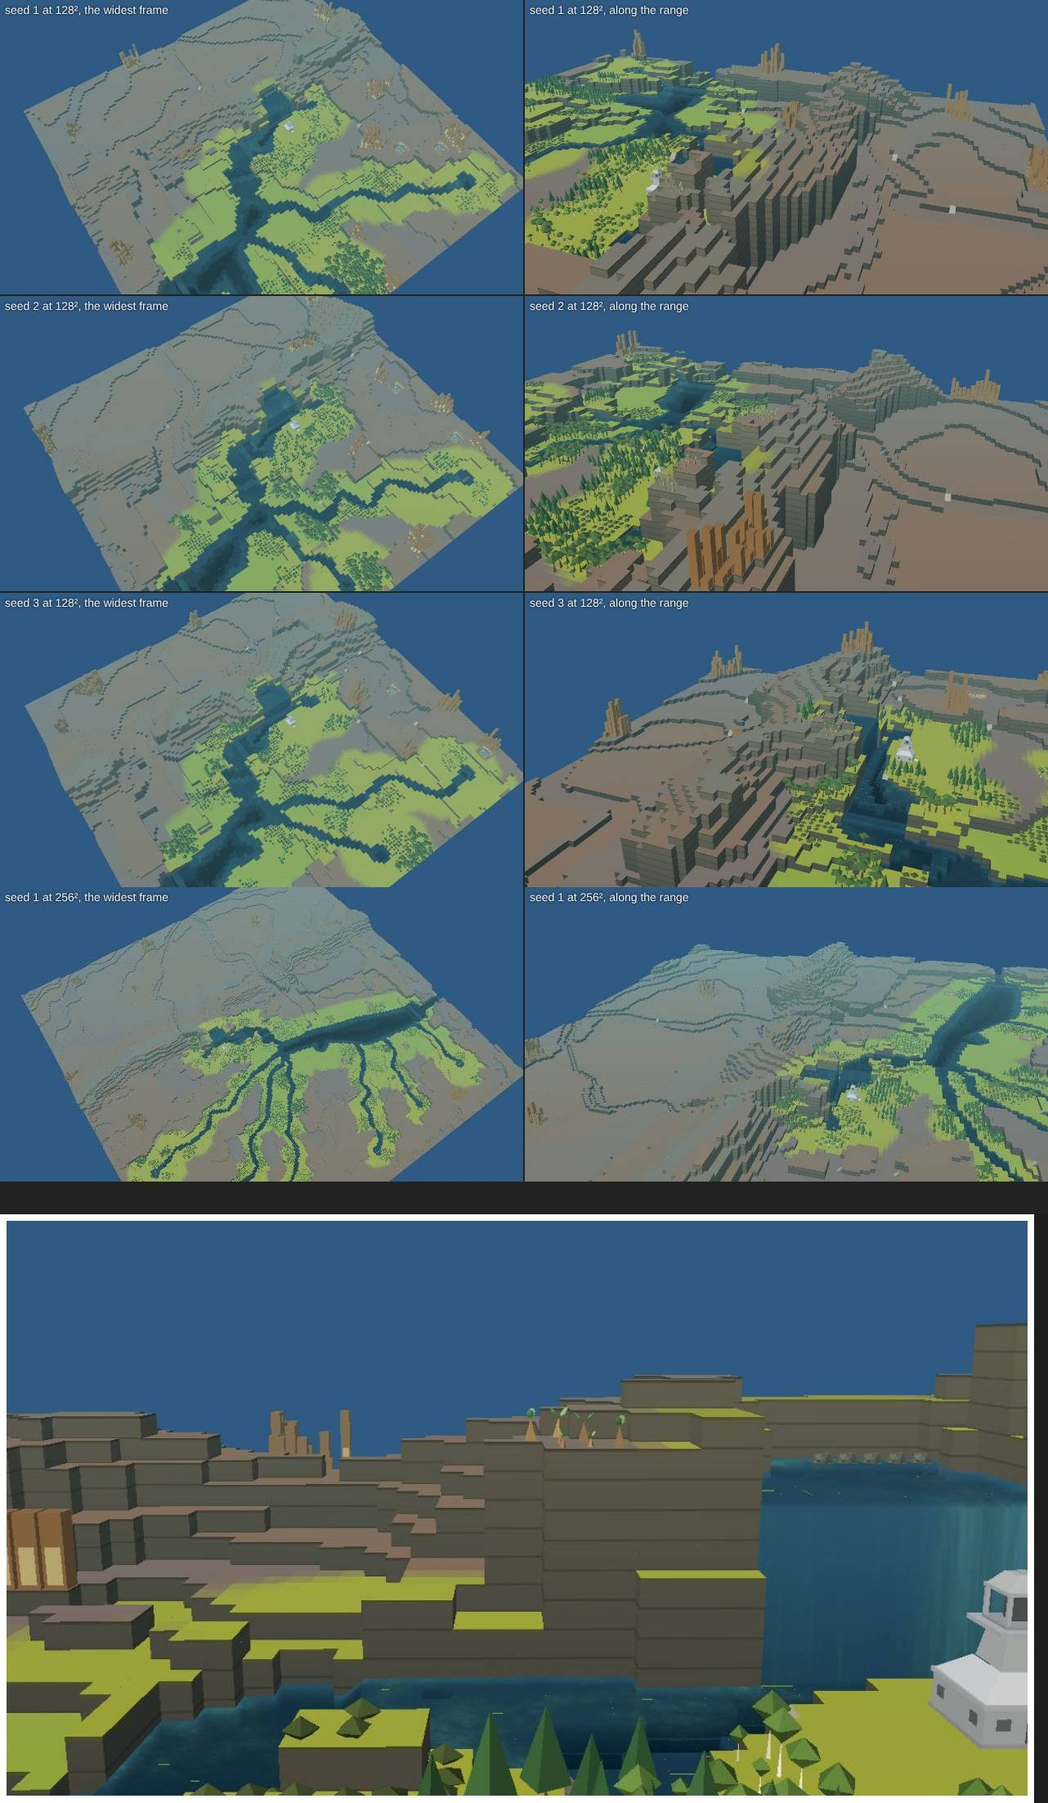
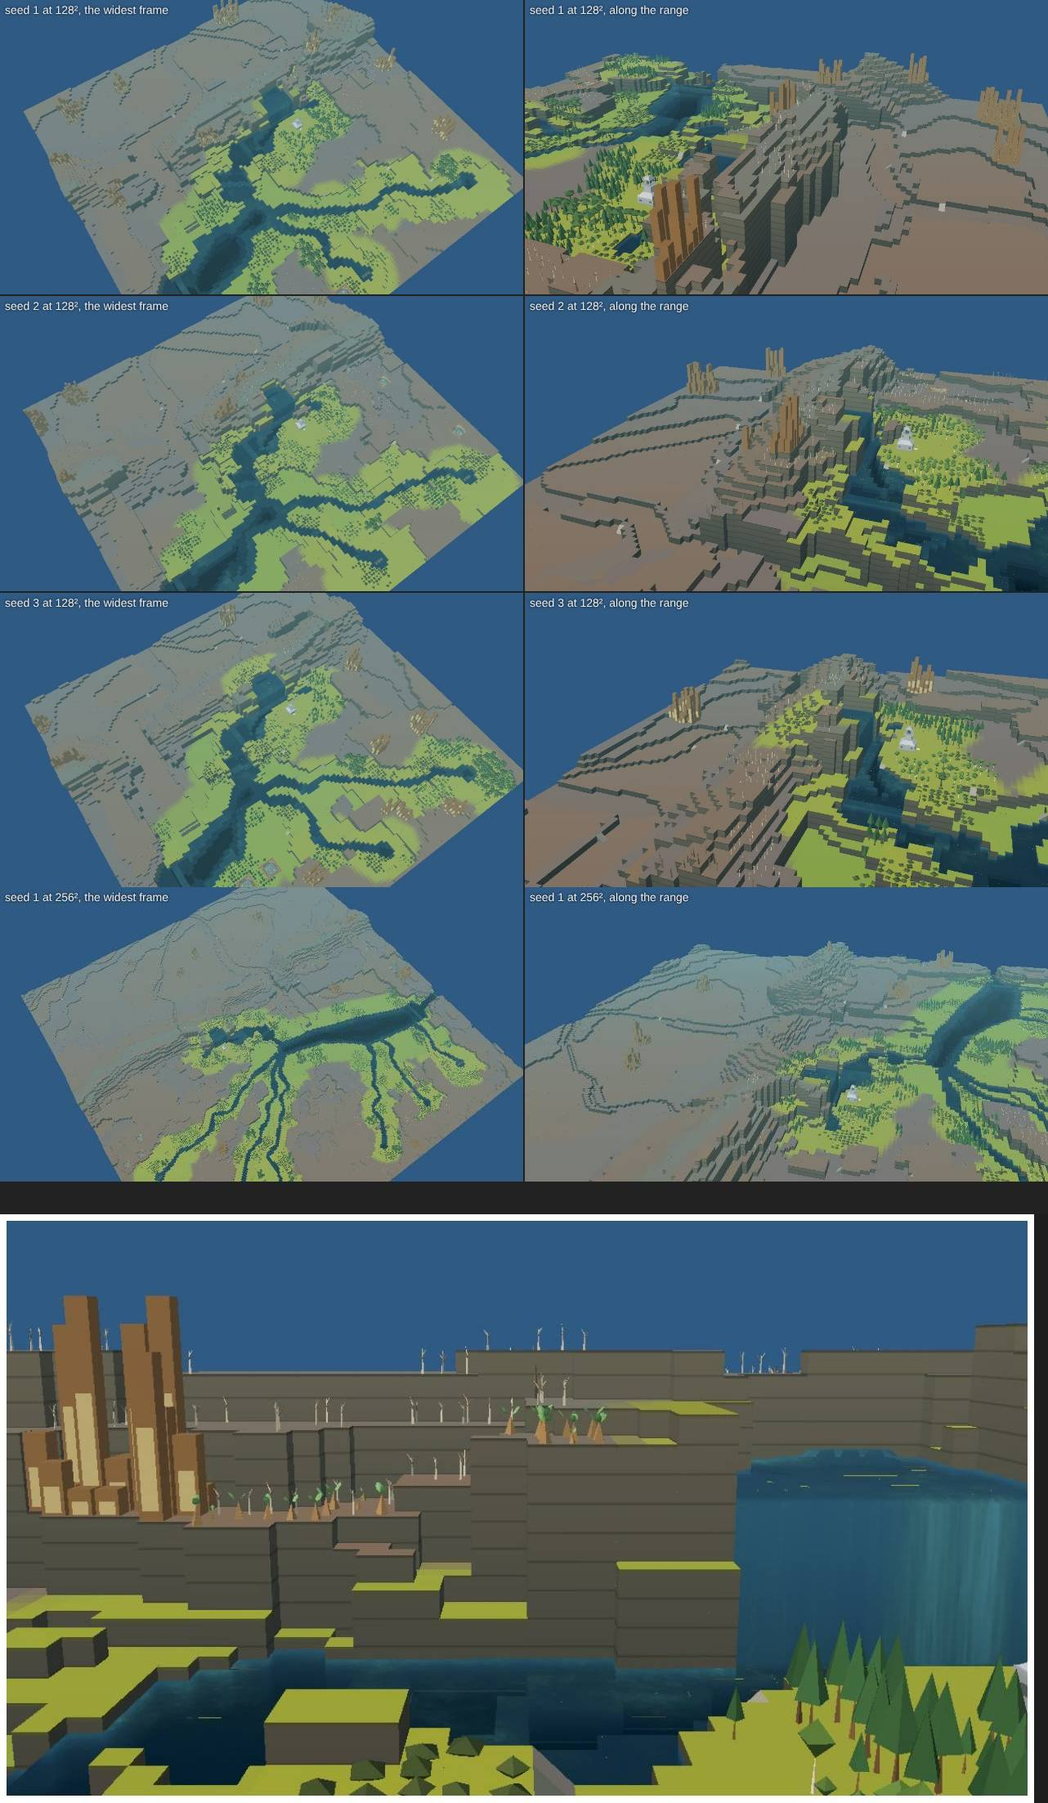
Gate gorge and time: the gorge winds, the layouts that failed are mended, the land stage quicker
The Gate's gorge swings 1.5 to 2.5 tiles to each side every three tiles, across the bench and
the range; gorgeFaces reads the longest straight face over three levels (not yet an invariant:
9 to 38 tiles against the six asked). Layouts: the start's row searched from the Veil's face - 7
to - 3 (every Cw180 layout failed the first frame), the Gate leaves the arm's own edge, a brook
ends a tile inside the shore's edge. The land stage keeps the range's band and erodes on its box;
smaller buttresses. Holds 12 of 12 at 128, 192 and 256; 256² median 5.5 s (6.6 before).

Claude-Session: https://claude.ai/code/session_019E9kh5fyLEE1WCHksi7jtk

diff --git a/src/core/premise/gateLand.ts b/src/core/premise/gateLand.ts
@@ -53,6 +53,9 @@ export const RANGE_LAND = { warp: 6, warpCell: 17, width: 0.25, knob: 2, spur: 0
  *  of radius `fan` at its mouth. */
 export const RANGE_FLOW = { reach: 1, iterations: 6, k: 0.008, diffusion: 0.04, mouth: 20, fan: 5, cut: 3 } as const;
 
+/** The walls of the dry beds through the range: bands of `band` levels, ledges `ledge` tiles wide, out `reach` tiles. */
+export const GORGE = { band: 3, ledge: [2, 3], reach: 18 } as const;
+
 /** The scarp's profile: from the crest (`SCARP.dome` tiles of it) down cliff bands, each a cliff a tile wide, a ledge of
  *  `ledge(k)` tiles below it, to talus a level over the foot falling a level in `SCARP.talus` tiles. */
 function scarpAt(x: number, crest: number, foot: number, ledge: (k: number) => number): number {
@@ -113,7 +116,7 @@ function backSpurAt(sp: { path: Point[] }, u: number, v: number, crest: number, 
  *  foot but at the saddles; the scarp's ledges `ledge` tiles wide by noise `ledgeCell` across, its talus `talus` tiles;
  *  a buttress carries the ledges `buttress` tiles out; a back spur falls `spurRun` tiles slower than the slope and
  *  `spurSide` a tile to its sides. */
-export const SCARP = { fade: 3, benches: 3, wander: 0.5, wanderCell: 14, run: [2.2, 2.8], dome: 0.5, knob: 0.8, knobCell: 14, least: 4, ledge: [1.6, 2.6], ledgeCell: 12, talus: 2, buttress: 3, spurRun: 0.8, spurSide: 0.8 } as const;
+export const SCARP = { fade: 3, benches: 3, wander: 0.5, wanderCell: 14, run: [2.2, 2.8], dome: 0.5, knob: 0.8, knobCell: 14, least: 4, ledge: [1.6, 2.6], ledgeCell: 12, talus: 2, buttress: 1.5, spurRun: 0.8, spurSide: 0.8 } as const;
 
 /** A spur's height at local (u, v): its crest line falling from the range's crest at the spine to the foot past the
  *  flank's end, and a level a tile or so to each side of it. */
@@ -312,8 +315,35 @@ function rangeFrame(plan: PremisePlan, g: GateNumbers, w: StageWater) {
   };
 }
 
+/** The box round a mask's tiles, `margin` tiles out, inside the map. */
+function bandBox(mask: Uint8Array, W: number, H: number, margin: number): { x: number; y: number; w: number; h: number } {
+  let [x0, y0, x1, y1] = [W, H, -1, -1];
+  for (let i = 0; i < mask.length; i++)
+    if (mask[i]) {
+      const x = i % W;
+      const y = (i - x) / W;
+      [x0, y0, x1, y1] = [Math.min(x0, x), Math.min(y0, y), Math.max(x1, x), Math.max(y1, y)];
+    }
+  if (x1 < 0) return { x: 0, y: 0, w: 1, h: 1 };
+  x0 = Math.max(0, x0 - margin);
+  y0 = Math.max(0, y0 - margin);
+  x1 = Math.min(W - 1, x1 + margin);
+  y1 = Math.min(H - 1, y1 + margin);
+  return { x: x0, y: y0, w: x1 - x0 + 1, h: y1 - y0 + 1 };
+}
+
 /** The range's band (`rangeFrame`'s `t` under 1, off the start's bench): where the range's own ground stands. */
 export function rangeBand(plan: PremisePlan, w: StageWater): Uint8Array {
+  // (read a few times a plan, by the column pass and the checks: kept for its stage 1 water and plan)
+  const kept = bands.get(w);
+  if (kept && kept.plan === plan) return kept.band;
+  const band = rangeBandOf(plan, w);
+  bands.set(w, { plan, band });
+  return band;
+}
+const bands = new WeakMap<StageWater, { plan: PremisePlan; band: Uint8Array }>();
+
+function rangeBandOf(plan: PremisePlan, w: StageWater): Uint8Array {
   const g = gateOf(plan)!;
   const { W, H } = plan;
   const at = rangeFrame(plan, g, w);
@@ -366,6 +396,13 @@ export function gateRelief(plan: PremisePlan, w: StageWater, style?: ReliefStyle
   const band = new Uint8Array(N);
   const foots = new Float64Array(N);
   const spurs = g.spurs ?? [];
+  // (each spur's box, six tiles out: a tile past it is never near it)
+  const boxes = spurs.map((sp) => {
+    const us = sp.path.map((p) => p[0]);
+    const vs = sp.path.map((p) => p[1]);
+    return [Math.min(...us) - 6, Math.min(...vs) - 6, Math.max(...us) + 6, Math.max(...vs) + 6];
+  });
+  const nearBox = (k: number, u: number, v: number) => u >= boxes[k][0] && u <= boxes[k][2] && v >= boxes[k][1] && v <= boxes[k][3];
   for (let y = 0; y < H; y++)
     for (let x = 0; x < W; x++) {
       const i = y * W + x;
@@ -396,7 +433,7 @@ export function gateRelief(plan: PremisePlan, w: StageWater, style?: ReliefStyle
         // the scarp: two or three cliff bands of two or three levels, ledges two to four wide between them, wandering
         // with broad noise; a spur toward the valley a buttress that carries the ledges out; talus at the foot
         let x0 = d;
-        for (const sp of spurs) if (sp.side === 0) x0 = Math.min(x0, d - SCARP.buttress * spurNear(sp, wu, wv));
+        for (let k = 0; k < spurs.length; k++) if (spurs[k].side === 0 && nearBox(k, wu, wv)) x0 = Math.min(x0, d - SCARP.buttress * spurNear(spurs[k], wu, wv));
         // (its ledges as wide as the scarp's room allows: the plan's front, from the spine to the valley's ground)
         const bands = crest - foot <= 4 ? 2 : 3;
         const room = Math.max(0, (half - SCARP.dome - bands - SCARP.talus) / bands);
@@ -407,15 +444,18 @@ export function gateRelief(plan: PremisePlan, w: StageWater, style?: ReliefStyle
         // (past the band, down to the basin's benches, at twice the pace: the slope's terraces fade into the pan)
         const inBand = Math.min(d0, half);
         L = crest - Math.max(0, inBand - SCARP.dome) / run - Math.max(0, d0 - half) / (run / 2) + SCARP.wander * fbm(sLedge + 9, x, y, SCARP.wanderCell, 2);
-        if (band[i]) for (const sp of spurs) if (sp.side === 2) L = Math.max(L, backSpurAt(sp, wu, wv, crest, run));
+        if (band[i]) for (let k = 0; k < spurs.length; k++) if (spurs[k].side === 2 && nearBox(k, wu, wv)) L = Math.max(L, backSpurAt(spurs[k], wu, wv, crest, run));
         // (under the slope the basin keeps its benches, not its hills: capped hills under it stood as flat-topped knolls
         // across the slope)
         L = Math.max(L, Math.min(basin, g.pan.level + SCARP.benches));
-        // (and never over the dry lake's playa: the slope's terraces end at its edge)
+        // (and never over the dry lake's playa: the slope's terraces come down to its edge in steps of two, ledges two or
+        // three wide; cut off at its edge, the slope stood a wall ten levels high along it)
         if (basin <= g.pan.level + 1) L = basin;
       }
       f[i] = L;
     }
+  // (the band as `rangeBand` reads it, kept for the column pass and the checks)
+  bands.set(w, { plan, band: Uint8Array.from(band) });
   // (stage 1's ground beside a dry bed in the range, its wadi strips, is the range's own: the gorge's walls are its
   // flanks, and a wadi strip a level over the bed through the range let the valley out at the megadam's water)
   const { zone } = gateZones(plan, g);
@@ -432,17 +472,31 @@ export function gateRelief(plan: PremisePlan, w: StageWater, style?: ReliefStyle
     for (const i of r.lips[g.veil] ?? []) veilAt[i] = 1;
     const nearVeil = distanceFrom(veilAt, W, H);
     for (let i = 0; i < N; i++) if (nearVeil[i] < 10) hard[i] = 1;
-    const e = erodeHard(f, hard, W, H, RANGE_FLOW.iterations, RANGE_FLOW.k, RANGE_FLOW.diffusion, (i) => !band[i]);
+    // (on the band's box and `RANGE_FLOW.iterations` + 2 tiles round it, the furthest the diffusion carries anything in;
+    // the whole map took a second at 256²)
+    const box = bandBox(band, W, H, RANGE_FLOW.iterations + 2);
+    const sub = (a: ArrayLike<number>) => {
+      const o = new Float64Array(box.w * box.h);
+      for (let y = 0; y < box.h; y++) for (let x = 0; x < box.w; x++) o[y * box.w + x] = a[(y + box.y) * W + x + box.x];
+      return o;
+    };
+    const at = (k: number) => (Math.floor(k / box.w) + box.y) * W + (k % box.w) + box.x;
+    const eSub = erodeHard(sub(f), sub(hard), box.w, box.h, RANGE_FLOW.iterations, RANGE_FLOW.k, RANGE_FLOW.diffusion, (k) => !band[at(k)]);
+    const e = Float64Array.from(f);
+    for (let k = 0; k < eSub.length; k++) e[at(k)] = eSub[k];
     // (a canyon cuts `RANGE_FLOW.cut` levels into the block at most: cut to the basin's floor, one ran through the range
     // under the gap's saddle and the dry lake reached the valley)
     for (let i = 0; i < N; i++) if (band[i] && hard[i] < 1) f[i] = Math.max(foots[i], f[i] - RANGE_FLOW.cut, e[i]);
     // fans at the side valleys' mouths, on both sides: where a valley's water leaves the range, a low cone a level over the
     // foot, out `RANGE_FLOW.fan` tiles
-    const d = drainage(f, W, H, { outlet: (i) => !band[i], epsilon: 1e-6 });
+    const dSub = drainage(sub(f), box.w, box.h, { outlet: (k) => !band[at(k)], epsilon: 1e-6 });
     const fan = new Float64Array(N).fill(-Infinity);
-    for (let i = 0; i < N; i++) {
-      const rc = d.rcv[i];
-      if (!band[i] || rc < 0 || band[rc] || d.area[i] < RANGE_FLOW.mouth) continue;
+    for (let k = 0; k < box.w * box.h; k++) {
+      const i = at(k);
+      const rk = dSub.rcv[k];
+      const rc = rk < 0 ? -1 : at(rk);
+      const area = dSub.area[k];
+      if (!band[i] || rc < 0 || band[rc] || area < RANGE_FLOW.mouth) continue;
       const x0 = i % W;
       const y0 = Math.floor(i / W);
       const R2 = RANGE_FLOW.fan;
@@ -1153,6 +1207,58 @@ const rangeValleysCheck: GateLandInvariant = {
     const v = rangeValleys(plan, water, heights);
     const least = Math.round((RANGE_CHECK.valleys * plan.W) / 128);
     return v.front >= least && v.back >= least ? OK : fail(`The range has ${v.front} side valleys toward the valley and ${v.back} toward the basin (${least} or more each)`);
+  },
+};
+
+/** The longest straight run, along a row or a column, of faces over `GORGE_FACE.levels` levels on the range and the
+ *  Gate's gorge (the band, and three tiles round the gorge's channel), the Veil's own drop excepted (`GORGE_FACE.veil`
+ *  tiles round its lip, its cleft and its mouth) and the Gate's head (its bar and rows, laid straight); with where. */
+export function gorgeFaces(plan: PremisePlan, water: StageWater, heights: ArrayLike<number>): { run: number; at: number } {
+  const g = gateOf(plan)!;
+  const { W, H } = plan;
+  const N = W * H;
+  const r = water.raster;
+  const band = rangeBand(plan, water);
+  const gi = plan.links.findIndex((l) => l.id === g.gate) + 1;
+  const vi = plan.links.findIndex((l) => l.id === g.veil) + 1;
+  const pi = plan.bodies.findIndex((b) => b.id === g.pool) + 1;
+  const gate = new Uint8Array(N);
+  const veil = new Uint8Array(N);
+  const barEnd = Math.max(0, ...(plan.links[gi - 1]?.rows ?? [0])) + 2;
+  for (let i = 0; i < N; i++) {
+    if (r.channel[i] === gi) gate[i] = 1;
+    if (r.channel[i] === vi || r.lake[i] === pi || r.pool[i] === vi || r.crest[i]) veil[i] = 1;
+    // (and the Gate's head, its bar and rows of Blockages, laid straight on purpose)
+    if (r.channel[i] === gi && r.along[i] <= barEnd) veil[i] = 1;
+  }
+  const nearGate = distanceFrom(gate, W, H);
+  const nearVeil = distanceFrom(veil, W, H);
+  const own = (i: number) => (band[i] === 1 || nearGate[i] <= 3) && nearVeil[i] > GORGE_FACE.veil;
+  const face = (i: number, j: number) => own(i) && own(j) && Math.abs(heights[i] - heights[j]) > GORGE_FACE.levels;
+  let run = 0;
+  let at = -1;
+  // (faces between rows, run along x; faces between columns, run along y)
+  for (let y = 0; y + 1 < H; y++)
+    for (let x = 0, n = 0; x < W; x++) {
+      n = face(y * W + x, (y + 1) * W + x) ? n + 1 : 0;
+      if (n > run) [run, at] = [n, y * W + x];
+    }
+  for (let x = 0; x + 1 < W; x++)
+    for (let y = 0, n = 0; y < H; y++) {
+      n = face(y * W + x, y * W + x + 1) ? n + 1 : 0;
+      if (n > run) [run, at] = [n, y * W + x];
+    }
+  return { run, at };
+}
+export const GORGE_FACE = { levels: 3, run: 6, veil: 4 } as const;
+
+/** `gorge.walls` (planning's ruling of 2026-11-14): no face over three levels runs straight for more than six tiles on
+ *  the range and the Gate's gorge, the Veil's drop excepted. */
+const gorgeWalls: GateLandInvariant = {
+  id: "gorge.walls",
+  test({ plan, water, heights }) {
+    const f = gorgeFaces(plan, water, heights);
+    return f.run <= GORGE_FACE.run ? OK : fail(`A face over ${GORGE_FACE.levels} levels runs straight for ${f.run} tiles at ${f.at % plan.W}, ${Math.floor(f.at / plan.W)} (${GORGE_FACE.run} at most)`);
   },
 };
 

diff --git a/src/core/premise/premises/wallGate.ts b/src/core/premise/premises/wallGate.ts
@@ -159,6 +159,8 @@ const GIVES = { gateOpen: (2 / 3) * 1318 / 192, gateWhole: (2 / 3) * 1534 / 192,
  *  `SHARE_RUNGS`), so their floor is 0, the round's share their most. */
 const SHARE = new Set(["gateWhole", "leatWhole"]);
 
+/** How far the Gate's gorge swings to each side of its line across the range, a point every three tiles. */
+export const GORGE_WANDER = [1.5, 2.5] as const;
 /** Layouts an attempt draws before it gives up. */
 const LAYOUT_TRIES = 72;
 
@@ -555,8 +557,18 @@ function layout(spec: MapSpec, attempt: number, t: number): Laid {
   // (the Gate leaves the lake's shore nearest it, and winds across the bench to the range)
   let gs: Spine[number] = main[0];
   for (const p of main) if (Math.abs(p[0] - gu) < Math.abs(gs[0] - gu)) gs = p;
-  const gShore = gs[1] + gs[2] + 0.5;
   const gate0u = Math.max(gs[0] - gs[2] + 2, Math.min(gs[0] + gs[2] - 2, gu));
+  // (its shore where the gorge leaves it: the main arm's edge at the gorge's u, the capsules between the lobes included;
+  // from the nearest lobe's own edge, the gorge started inside the arm between two lobes, the commonest plan refused)
+  let gShore = gs[1] + gs[2] + 0.5;
+  for (let k = 0; k + 1 < main.length; k++)
+    for (let f = 0; f <= 1; f += 0.05) {
+      const pu = main[k][0] + (main[k + 1][0] - main[k][0]) * f;
+      const pv = main[k][1] + (main[k + 1][1] - main[k][1]) * f;
+      const pr = main[k][2] + (main[k + 1][2] - main[k][2]) * f;
+      const du = Math.abs(pu - gate0u);
+      if (du < pr) gShore = Math.max(gShore, pv + sqrt(pr * pr - du * du) + 0.5);
+    }
   const lakeArms: Spine[] = [main];
   // ---- the frame: the start in the Veil's lap, the lip whole in the first frame
   const z = D + 1;
@@ -565,7 +577,11 @@ function layout(spec: MapSpec, attempt: number, t: number): Laid {
   let start: { x: number; y: number } | null = null;
   let bestU = Infinity;
   let lipAhead = 0;
-  for (let sv0 = fb - 6; sv0 >= fb - 7; sv0--)
+  // (the start's tile is its corner, so its 5 × 5 reaches toward the lip or away from it by the camera's turn: from
+  // fb − 6 and fb − 7 alone, every layout turned Cw180 stood the lip past the frame's top edge, a quarter of all tries)
+  // (the farthest row that frames the lip first, rows 6 and 7 off the face as before: nearer, the plunge pool reached the
+  // start's 5 × 5)
+  for (let sv0 = fb - 7; sv0 <= fb - 3 && !start; sv0++)
     for (let su = lu0 + 1; su <= lu1 - 4; su++) {
       const [x, y] = tileOnMap(T, [su, sv0]);
       const fr = lipInFrame({ x, y, z, orientation }, lipMap, poolSill, D + 0.3);
@@ -669,12 +685,20 @@ function layout(spec: MapSpec, attempt: number, t: number): Laid {
   const jog = () => (ju = Math.max(-5, Math.min(5, ju + rng.range(-3, 3))));
   // (straight for its bar and rows, then winding across the bench to the range's foot)
   const gate: Point[] = [[gate0u, gShore - 0.5], [gate0u, gShore + BAR_LENGTH + 4]];
-  const benchLegs = Math.max(1, Math.round((foot(gu) - 1 - (gShore + BAR_LENGTH + 4)) / 6));
-  for (let i = 1; i <= benchLegs; i++) gate.push([gate0u + ((gu - gate0u) * i) / benchLegs + jog(), gShore + BAR_LENGTH + 4 + ((foot(gu) - 1 - (gShore + BAR_LENGTH + 4)) * i) / benchLegs]);
+  const benchLegs = Math.max(1, Math.round((foot(gu) - 1 - (gShore + BAR_LENGTH + 4)) / 3));
+  // (swinging side to side across the bench too, as through the range)
+  const benchSwing = rng.float() < 0.5 ? -1 : 1;
+  for (let i = 1; i <= benchLegs; i++) gate.push([gate0u + ((gu - gate0u) * i) / benchLegs + (i % 2 ? benchSwing : -benchSwing) * rng.range(GORGE_WANDER[0], GORGE_WANDER[1]), gShore + BAR_LENGTH + 4 + ((foot(gu) - 1 - (gShore + BAR_LENGTH + 4)) * i) / benchLegs]);
   const gr = rangeAt(R0, gu);
-  // (a point every three tiles or so across the range, each off the last by up to 3: a gorge winds)
+  // (a point every three tiles or so across the range, swinging from side to side of its line by `GORGE_WANDER` tiles,
+  // so it is two or more off its line in every eight (planning's ruling of 2026-11-14): a random walk ran straight for
+  // fifteen tiles and stood one sheer face along it)
   const across = Math.max(3, Math.round((footV - (gr.v - gr.front / 2)) / 3));
-  for (let i = 0; i <= across; i++) gate.push([gu + jog(), gr.v - gr.front / 2 + ((footV - (gr.v - gr.front / 2)) * i) / across]);
+  let swing = rng.float() < 0.5 ? -1 : 1;
+  for (let i = 0; i <= across; i++) {
+    gate.push([gu + (i === 0 ? jog() : swing * rng.range(GORGE_WANDER[0], GORGE_WANDER[1])), gr.v - gr.front / 2 + ((footV - (gr.v - gr.front / 2)) * i) / across]);
+    swing = -swing;
+  }
   const slotTo = gate.length - 1;
   const inPan: Point = [panU + 0.3 * panR, panV - 0.4 * panR];
   const outPan: Point = [panU + 0.4 * panR + rng.range(-1, 1), panV + 0.6 * panR];
@@ -781,19 +805,24 @@ function layout(spec: MapSpec, attempt: number, t: number): Laid {
   for (const [tu, tv] of tarnAt) {
     const r = rng.range(2.6, 3.2);
     const sill = S + rng.int(3, 5);
-    // the nearest point of the main arm, a tile inside it
+    // the nearest point of the main arm's shore, a tile inside it (by the capsules' own edge: from the nearest point of
+    // its line and the smallest lobe near it, a brook's end lay deep in the arm and its middle ran through the lake)
     let best: Point = [main[0][0], main[0][1]];
     let bd = Infinity;
+    let lr = main[0][2];
+    let be = Infinity;
     for (let k = 0; k + 1 < main.length; k++)
-      for (let s = 0; s <= 1; s += 0.1) {
+      for (let s = 0; s <= 1; s += 0.05) {
         const p: Point = [main[k][0] + (main[k + 1][0] - main[k][0]) * s, main[k][1] + (main[k + 1][1] - main[k][1]) * s];
+        const pr = main[k][2] + (main[k + 1][2] - main[k][2]) * s;
         const d = dist(p, [tu, tv]);
-        if (d < bd) {
+        if (d - pr < be) {
+          be = d - pr;
           bd = d;
           best = p;
+          lr = pr;
         }
       }
-    const lr = main.reduce((m, p) => Math.min(m, dist([p[0], p[1]], best) < 8 ? p[2] : m), 9);
     const dx = (best[0] - tu) / bd;
     const dy = (best[1] - tv) / bd;
     const head: Point = [tu + dx * (r - 1), tv + dy * (r - 1)];
@@ -832,7 +861,9 @@ function layout(spec: MapSpec, attempt: number, t: number): Laid {
     p[1] + r < lakeTopV &&
     pathDist(p[0], p[1], outflow).d > r + 4 &&
     tarns.every((tn) => dist(p, [tn.spine[0][0], tn.spine[0][1]]) > r + tn.spine[0][2] + 5 && pathDist(p[0], p[1], tn.path).d > r + 4) &&
-    pathDist(p[0], p[1], low).d > r + 5;
+    pathDist(p[0], p[1], low).d > r + 5 &&
+    // (and off the Gate's gorge: a bay across it was the commonest plan refused, the Gate running through the lake)
+    pathDist(p[0], p[1], gate.slice(1)).d > r + slotW / 2 + 3;
   const want = rng.int(1, 3);
   for (let tries = 0; tries < 24 && lakeArms.length < 1 + want; tries++) {
     const j = rng.int(0, main.length - 1);

diff --git a/docs/PREMISES.md b/docs/PREMISES.md
@@ -1366,6 +1366,25 @@ at 192², 17 to 24 at 256², each with its fan; the valley's green 33 to 40 % / 
 valley's room before the Veil and the basin's floor fix it); from the widest frame the back slope reads as the basin's
 grey; near the gorge and the Veil the scarp still stands as square walls.
 
+**The gorge and the time** (planning's ruling of 2026-11-14). The Gate's gorge swings from side to side of its line,
+1.5 to 2.5 tiles a point every three tiles, across the bench and through the range (`GORGE_WANDER`), and the scarp's
+buttresses carry its ledges 1.5 tiles out. `gateLand.ts` `gorgeFaces` reads the longest straight run of a face over three
+levels on the range and the gorge (the Veil and the Gate's bar and rows excepted): 9 to 23 tiles at 128², 12 to 21 at
+192², 10 to 38 at 256² (seeds 1 to 6); **short of the six asked**, so `gorge.walls` is not yet a land invariant. Tried and
+backed out: the beds' walls stepped back in bands of three with ledges (the first face to the gap's saddle, the
+valley held there) and the back slope stepped down to the playa: the runs fell to 5 to 9 tiles, but the steps made
+columns and flats, and the maps held 8, 5 and 0 of 12. **The time**: a 256² map took 6.6 s (3.6 s on dev) because of the
+plans drawn again; of the layouts an attempt draws, a quarter (every one turned Cw180) failed the first frame (the
+start's row was searched at the Veil's face − 6 and − 7 only, which put the lip past the frame's top edge for that
+turn: it is now searched from − 7 to − 3, the farthest row that frames the lip first), and most of the rest were
+refused for the Gate running through the lake (its shore was the nearest lobe's edge, not the arm's between two lobes:
+now the arm's own edge) and a brook running through the lake (its end lay deep in the arm: now a tile inside the
+shore's own edge). The land stage keeps the range's band for its checks and erodes on the band's box: 1.6 s to 1.1 s
+at 256². A 256² map now takes 5.5 s (median, seeds 1 to 6), still over the 4.5 s asked: each map is refused at the land
+two times or so (`range.flat`, `basin.bowl`), a second and a half a time. Milestone's dead stands (D516, `gen/deadStands.ts`)
+run on the Gate's land through `premiseLife`'s `planResources`: 14 to 26 stands a map at 128² (shores, hollows, tops);
+the start's level land, reach, forester and farmland are unchanged, its wood moves by up to 22 logs.
+
 **As built (land, stage 2).** `gateLand.ts` `gateRelief`: the shared relief for the valley, the range and the basin
 shaped from the plan as the table says, the valley's land coming in over the range's lowest flank (never under it),
 pits and slivers merged (`land/levels.ts`), every tile at least its guard, the check and the mend; `gateLand` adds the
